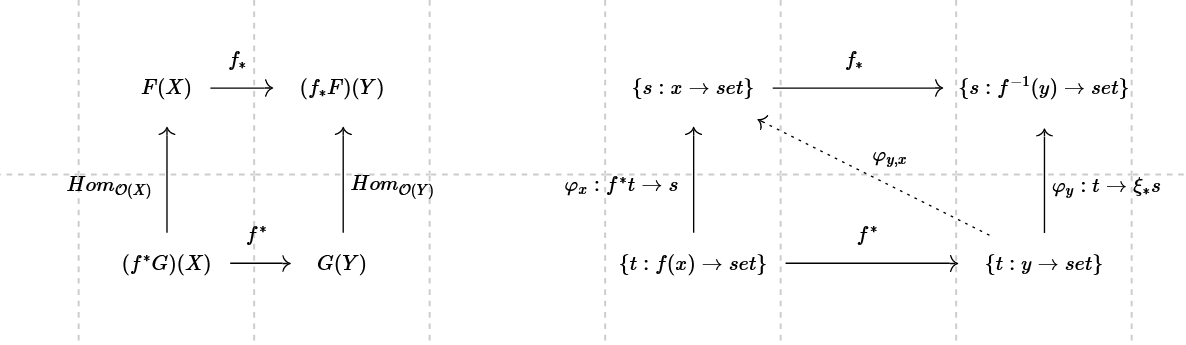
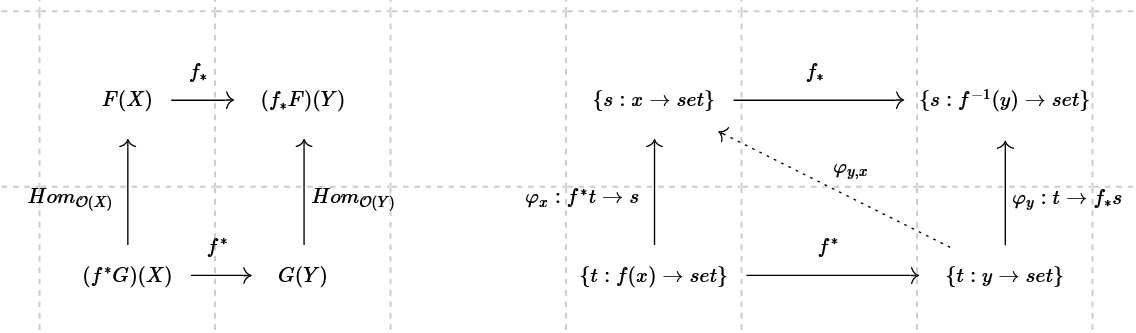
pull push notes

diff --git a/math/figures/image_functor_equal.md b/math/figures/image_functor_equal.md
@@ -1,0 +1,60 @@
+* $\xi^{*}\mathcal{O}_{(K,E)} \approx \xi^{-1}\mathcal{O}_{(K,E)}$
+* $Hom_{\mathcal{O}(S)}(\xi^{-1}\mathcal{O}_{(K,E)}, \mathcal{O}_{(S,H)}) = 
+Hom_{\mathcal{O}(K)}(\mathcal{O}_{(K,E)}, \xi_*\mathcal{O}_{(S,H)})$
+
+[usually not isomorphisms](https://en.wikipedia.org/wiki/Inverse_image_functor):
+* $\mathcal{O}_{(K,E)}\rightarrow \xi_*\xi^*\mathcal{O}_{(K,E)}$ push (pull)
+*  $\xi^*\xi_*\mathcal{O}_{(S,H)} \rightarrow \mathcal{O}_{(S,H)}$ pull (push)
+*  push over K, pull over S
+
+
+# Sections of sheaves
+surjective map $\xi: S \rightarrow K,\; \xi(s) = k$ 
+
+## graphic 
+* $D \hookrightarrow H \xrightarrow{\pi} S$
+* $\{W\} \in S$
+* $\mathcal{O}_{(S,H)}: \mathcal{S}^{op} \rightarrow Set$
+* $\mathcal{O}_{(S,H)}: W \mapsto \Gamma(W, H|_W)$
+* $\Gamma(W, H|_W) \ni \rho: W \rightarrow H|_W$
+* $\rho(s) = d,\; s \in W, d \in D_s$
+    * example: $d = \{x,y,r,g,b\}$ 
+## data 
+* $F \hookrightarrow E \xrightarrow{\pi} K$
+* $\{U\} \in K$
+* $\mathcal{O}_{(K,E)}: \mathcal{K}^{op} \rightarrow Set$ 
+* $\mathcal{O}_{(K,E)}: U \mapsto \Gamma(U, E|_U)$
+* $\Gamma(U, E|_U) \ni \tau: U \rightarrow E|_U$
+* $\tau(k) = r, \; k \in U, r \in F_k$ (Butler)
+  * typed & named field:value pairs (Spivak): 
+  * $r = \{field_1:value, field_2:value, ...,field_n:value\}$ 
+## pushed forward graphic
+* $\xi_*D \hookrightarrow \xi_*H \xrightarrow{\pi} K$
+* $\xi_*\mathcal{O}_{(S,H)}: U \mapsto \Gamma(U, \xi_* H|_U)$
+* $\Gamma(U, \xi_* H|_U) \ni \xi_*\rho: U \rightarrow \xi_*H|_U$ 
+* $\xi_*\rho(k) = \rho(\xi^{-1}(k)) = d \in D_{s}$ for all $s \in \xi^{-1}(k)$
+  * $\{\rho(s)\;for\;s\;in\;\xi^{-1}(k)\}$ <- whole glyph
+  
+## pulled back data 
+* $\xi^*F \hookrightarrow \xi^*E \xrightarrow{\pi} S$
+* $\xi^*\mathcal{O}_{(K,H)}: W \mapsto \Gamma(W, \xi^*E|_W)$
+* $\Gamma(W, \xi^*E|_W) \ni \xi^*\tau: W \rightarrow \xi^*E|_W$
+* $\xi^*\tau(s) = \tau(\xi(s)) = r \in F_{k}, \xi(s)=s$ # graphic region collapses to one record r
+
+
+# Artist
+* naturally isomorphic: $[\mathcal{O}_{S, \xi^*E}, \mathcal{O}_{S,H}] \cong [\mathcal{O}_{K, E}, \mathcal{O}_{K,\xi_* H}]$
+
+## $A_S \in Hom_{S}(\mathcal{O}_{S, \xi^*E}, \mathcal{O}_{S,H})$
+  * $A_S \in [\mathcal{O}_{S, \xi^*E}, \mathcal{O}_{S,H}]$
+  * 
+  *  $A_S \in Nat(\mathcal{O}_{S, \xi^*E}, \mathcal{O}_{S,H})$
+  * $A_S: \xi^{*}\mathcal{O}_{(K,E)} \mapsto \mathcal{O}_{(S,H)}$ 
+  * $A_S(\xi^*\tau) = A_s (\tau ( \xi(s))) = \rho(s)$
+
+## $A_K \in Hom_{\mathcal{O}(K)}(\mathcal{O}_{(K,E)}, \xi_*\mathcal{O}_{(S,H)})$
+  * $A_K (\tau) = \xi_*\rho = \rho|_{\xi^{-1}(k)}$
+
+## $A \in Hom_{\mathcal{O}(K), \mathcal{O}(S)}(\mathcal{O}(K,E), \mathcal{O}(S,H))$
+* $A: \tau \mapsto \rho$, $A(\tau(k)) = \rho|_{\xi^{-1}(k)}$
+* $\xi^{-1}(k) \subset S$, $\rho|_{\xi^{-1}(k)}: \xi^{-1}{k} \rightarrow H|_{\xi^{-1}(k)}$

diff --git a/math/pullback_and_pushforward.md b/math/pullback_and_pushforward.md
@@ -74,11 +74,11 @@ $\{t: f(p) \rightarrow c \mid p, c\in I\} \xrightarrow{f^*}\{t: q \rightarrow c 
 
 #### associativity of $\varphi$ components
 $\varphi_{x,y}: t \rightarrow s$
-$\varphi_x = f_* \circ (t \rightarrow s) = f^*\circ \varphi_{x,y}$
+$\varphi_x = f^* \circ (t \rightarrow s) = f^*\circ \varphi_{x,y}$
 $\varphi_y = (t \rightarrow s) \circ f_* = \varphi_{x,y} \circ f_*$
 $\varphi_x \circ f_* = f^* \circ \varphi_y$
 $(f^*\circ \varphi_{x,y}) \circ f_* = f^* \circ (\varphi_{x,y} \circ f_*)$ 
 
 #### currying
-pushforward: $f_* \circ (t \rightarrow s) = (f^* \circ t)\rightarrow s$
-pullback: $(t \rightarrow s) \circ f_* = t \rightarrow (f_* \circ s)$
+pushforward to Y: $f_* \circ (t \rightarrow s) = (f^* \circ t)\rightarrow s$
+pullback to X: $(t \rightarrow s) \circ f_* = t \rightarrow (f_* \circ s)$
